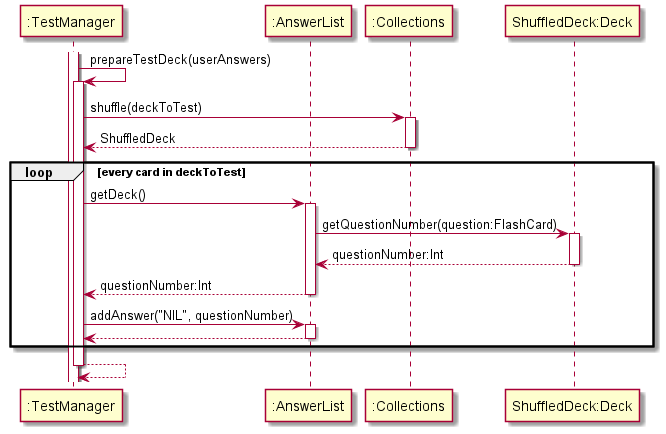
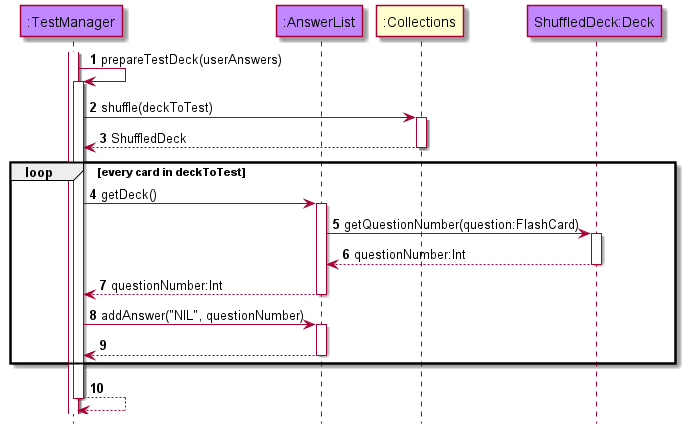
Updated test uml diagrams

diff --git a/src/main/java/seedu/cardli/testing/TestManager.java b/src/main/java/seedu/cardli/testing/TestManager.java
@@ -27,6 +27,7 @@ public class TestManager {
 
     private static final int TIME_PER_QUESTION = 15;
     private static final String EMPTY_ANSWER = "NIL";
+    private static final String EMPTY_STRING = "";
 
     private final TestUi ui;
     private final Logger logger = Logger.getLogger(TestManager.class.getName());
@@ -82,7 +83,7 @@ public class TestManager {
             ui.showMessage(e.getMessage());
             logger.log(Level.WARNING, "Empty deck");
         }
-        return "";
+        return EMPTY_STRING;
     }
 
     /**
@@ -121,7 +122,7 @@ public class TestManager {
         } catch (EmptyDeckException e) {
             ui.showMessage(NO_CARDS_TO_REVIEW_MESSAGE);
         }
-        return "";
+        return EMPTY_STRING;
     }
 
     //@@author ThaddeusLim99

diff --git a/docs/UserGuide.md b/docs/UserGuide.md
@@ -41,6 +41,7 @@ menu to work with the flashcards.
 ---
 ## Main Menu
 >💾 Your decks are saved after each command.
+
 ### Adding a deck: `add`
 Creates and adds a new deck with the given name, if it does not already exist.
 
